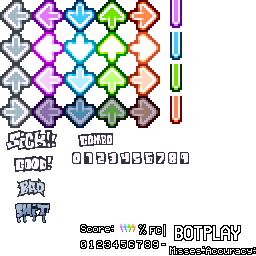
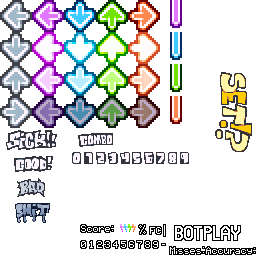
sfx!!!!!

Changed region(s): [[0.8438, 0.2812, 1.0, 0.5938]]

diff --git a/src/stage.c b/src/stage.c
@@ -72,6 +72,10 @@ boolean has2opponents;
 boolean opponent2sing;
 boolean opponentsing;
 
+static u32 Sounds[4];
+int soundcooldown;
+int drawshit;
+
 #include "character/bf.h"
 #include "character/bfweeb.h"
 #include "character/dad.h"
@@ -674,6 +678,46 @@ void Stage_DrawTexRotate(Gfx_Tex *tex, const RECT *src, const RECT_FIXED *dst, f
     Stage_DrawTexArb(tex, src, &d0, &d1, &d2, &d3, zoom);
 }
 
+void Stage_BlendTexRotate(Gfx_Tex *tex, const RECT *src, const RECT_FIXED *dst, fixed_t zoom, u8 angle, u8 mode)
+{	
+	s16 sin = MUtil_Sin(angle);
+	s16 cos = MUtil_Cos(angle);
+	int pw = dst->w / 2000;
+    int ph = dst->h / 2000;
+
+	//Get rotated points
+	POINT p0 = {-pw, -ph};
+	MUtil_RotatePoint(&p0, sin, cos);
+	
+	POINT p1 = { pw, -ph};
+	MUtil_RotatePoint(&p1, sin, cos);
+	
+	POINT p2 = {-pw,  ph};
+	MUtil_RotatePoint(&p2, sin, cos);
+	
+	POINT p3 = { pw,  ph};
+	MUtil_RotatePoint(&p3, sin, cos);
+	
+	POINT_FIXED d0 = {
+		dst->x + ((fixed_t)p0.x << FIXED_SHIFT),
+		dst->y + ((fixed_t)p0.y << FIXED_SHIFT)
+	};
+	POINT_FIXED d1 = {
+		dst->x + ((fixed_t)p1.x << FIXED_SHIFT),
+		dst->y + ((fixed_t)p1.y << FIXED_SHIFT)
+	};
+	POINT_FIXED d2 = {
+        dst->x + ((fixed_t)p2.x << FIXED_SHIFT),
+		dst->y + ((fixed_t)p2.y << FIXED_SHIFT)
+	};
+	POINT_FIXED d3 = {
+        dst->x + ((fixed_t)p3.x << FIXED_SHIFT),
+		dst->y + ((fixed_t)p3.y << FIXED_SHIFT)
+	};
+	
+    Stage_BlendTexArb(tex, src, &d0, &d1, &d2, &d3, zoom, mode);
+}
+
 void Stage_BlendTex(Gfx_Tex *tex, const RECT *src, const RECT_FIXED *dst, fixed_t zoom, u8 mode)
 {
 	fixed_t xz = dst->x;
@@ -1085,6 +1129,72 @@ static void Stage_DrawNotes(void)
 	}
 }
 
+static void Stage_CountDown(void)
+{
+
+	switch(stage.song_step)
+	{
+		case -17:
+			if (soundcooldown == 0)
+				Audio_PlaySound(Sounds[2]);
+			soundcooldown ++;
+			break;
+		case -13:
+			soundcooldown = 0;
+			break;
+		case -12:
+			drawshit = 3;
+			if (soundcooldown == 0)
+				Audio_PlaySound(Sounds[1]);
+			soundcooldown ++;
+			break;
+		case -8:
+			soundcooldown = 0;
+			break;
+		case -7:
+			drawshit = 2;
+			if (soundcooldown == 0)
+				Audio_PlaySound(Sounds[0]);
+			soundcooldown ++;
+			break;
+		case -3:
+			soundcooldown = 0;
+			break;
+		case -2:
+			drawshit = 1;
+			if (soundcooldown == 0)
+				Audio_PlaySound(Sounds[3]);
+			soundcooldown ++;
+			break;
+		//default: drawshit = 0; 
+		//	break;
+	}
+
+	RECT ready_src = {197, 112, 58, 125};	
+	RECT_FIXED ready_dst = {FIXED_DEC(0,1), FIXED_DEC(0,1), FIXED_DEC(58,1), FIXED_DEC(125,1)};	
+
+	RECT set_src = {201, 64, 54, 96};	
+	RECT_FIXED set_dst = {FIXED_DEC(0,1), FIXED_DEC(0,1), FIXED_DEC(54,1), FIXED_DEC(96,1)};	
+
+	RECT go_src = {207, 17, 48, 95};	
+	RECT_FIXED go_dst = {FIXED_DEC(0,1), FIXED_DEC(0,1), FIXED_DEC(48,1), FIXED_DEC(95,1)};	
+
+	if (drawshit == 3 && stage.song_step >= -12 && stage.song_step <= -9)
+		Stage_DrawTexRotate(&stage.tex_hud1, &ready_src, &ready_dst, stage.bump, -65);
+	else if (drawshit == 3 && stage.song_step >= -9 && stage.song_step <= -8)
+		Stage_BlendTexRotate(&stage.tex_hud1, &ready_src, &ready_dst, stage.bump, -65, 1);
+
+	if (drawshit == 2 && stage.song_step >= -7 && stage.song_step <= -4)
+		Stage_DrawTexRotate(&stage.tex_hud0, &set_src, &set_dst, stage.bump, -65);
+	else if (drawshit == 2 && stage.song_step >= -4 && stage.song_step <= -3)
+		Stage_BlendTexRotate(&stage.tex_hud0, &set_src, &set_dst, stage.bump, -65, 1);
+
+	if (drawshit == 1 && stage.song_step >= -2 && stage.song_step <= 1)
+		Stage_DrawTexRotate(&stage.tex_hud1, &go_src, &go_dst, stage.bump, -65);
+	else if (drawshit == 1 && stage.song_step >= 1 && stage.song_step <= 2)
+		Stage_BlendTexRotate(&stage.tex_hud1, &go_src, &go_dst, stage.bump, -65, 1);
+}
+
 //Stage loads
 static void Stage_SwapChars(void)
 {
@@ -1202,6 +1312,58 @@ static void Stage_LoadChart(void)
 	Stage_ChangeBPM(stage.cur_section->flag & SECTION_FLAG_BPM_MASK, 0);
 }
 
+static void Stage_LoadSFX(void)
+{
+	if (stage.stage_id >= StageId_6_1 && stage.stage_id <= StageId_6_3)
+	{
+		//Load SFX
+	 	CdlFILE file;
+	  	IO_FindFile(&file, "\\SOUNDS\\INTRO1P.VAG;1");
+	    u32 *data = IO_ReadFile(&file);
+	    Sounds[0] = Audio_LoadVAGData(data, file.size);
+	    Mem_Free(data);
+
+		IO_FindFile(&file, "\\SOUNDS\\INTRO2P.VAG;1");
+	    data = IO_ReadFile(&file);
+	    Sounds[1] = Audio_LoadVAGData(data, file.size);
+	    Mem_Free(data);
+
+		IO_FindFile(&file, "\\SOUNDS\\INTRO3P.VAG;1");
+	    data = IO_ReadFile(&file);
+	    Sounds[2] = Audio_LoadVAGData(data, file.size);
+	    Mem_Free(data);
+
+	   	IO_FindFile(&file, "\\SOUNDS\\INTROGOP.VAG;1");
+	    data = IO_ReadFile(&file);
+	    Sounds[3] = Audio_LoadVAGData(data, file.size);
+	    Mem_Free(data);
+	}
+	else
+	{
+		//Load SFX
+	 	CdlFILE file;
+	  	IO_FindFile(&file, "\\SOUNDS\\INTRO1.VAG;1");
+	    u32 *data = IO_ReadFile(&file);
+	    Sounds[0] = Audio_LoadVAGData(data, file.size);
+	    Mem_Free(data);
+
+		IO_FindFile(&file, "\\SOUNDS\\INTRO2.VAG;1");
+	    data = IO_ReadFile(&file);
+	    Sounds[1] = Audio_LoadVAGData(data, file.size);
+	    Mem_Free(data);
+
+		IO_FindFile(&file, "\\SOUNDS\\INTRO3.VAG;1");
+	    data = IO_ReadFile(&file);
+	    Sounds[2] = Audio_LoadVAGData(data, file.size);
+	    Mem_Free(data);
+
+	   	IO_FindFile(&file, "\\SOUNDS\\INTROGO.VAG;1");
+	    data = IO_ReadFile(&file);
+	    Sounds[3] = Audio_LoadVAGData(data, file.size);
+	    Mem_Free(data);
+	}
+}
+
 static void Stage_LoadMusic(void)
 {
 	//Offset sing ends
@@ -1250,6 +1412,8 @@ static void Stage_LoadState(void)
 		stage.player_state[i].combo = 0;
 		opponentsing = 1;	
 		opponent2sing = 1;
+		soundcooldown = 0;
+		drawshit = 0;
 		stage.player_state[i].miss = 0;
 		stage.player_state[i].accuracy = 0;
 		stage.player_state[i].max_accuracy = 0;
@@ -1289,7 +1453,10 @@ void Stage_Load(StageId id, StageDiff difficulty, boolean story)
 	}
 	//Load stage background
 	Stage_LoadStage();
-	
+
+	//Load SFX
+	Stage_LoadSFX();
+
 	//Load characters
 	Stage_LoadPlayer();
 	Stage_LoadOpponent();
@@ -1548,6 +1715,9 @@ void Stage_Tick(void)
 				note_x[7] = FIXED_DEC(-26,1) - FIXED_DEC(SCREEN_WIDEADD,4);
 			}
 
+
+
+			Stage_CountDown();
 			if (stage.botplay == 1)
 			{
 				//Draw botplay

diff --git a/src/menu.c b/src/menu.c
@@ -26,7 +26,7 @@
 
 #include "stdlib.h"
 
-u32 Sounds[3];
+static u32 Sounds[3];
 
 //Menu messages
 static const char *funny_messages[][2] = {
@@ -270,28 +270,23 @@ void Menu_Load(MenuPage page)
 	Trans_Clear();
 	
 	stage.song_step = 0;
-	
-	//sound effects temporarily disabled for repair
-/*
+
 	// to load
 	CdlFILE file;
-    IO_FindFile(&file, "\\SOUND\\SCROLL.VAG;1");
+    IO_FindFile(&file, "\\SOUNDS\\SCROLL.VAG;1");
     u32 *data = IO_ReadFile(&file);
     Sounds[0] = Audio_LoadVAGData(data, file.size);
+    Mem_Free(data);
 
-	IO_FindFile(&file, "\\SOUND\\CONFIRM.VAG;1");
+	IO_FindFile(&file, "\\SOUNDS\\CONFIRM.VAG;1");
     data = IO_ReadFile(&file);
     Sounds[1] = Audio_LoadVAGData(data, file.size);
+    Mem_Free(data);
 
-	IO_FindFile(&file, "\\SOUND\\CANCEL.VAG;1");
+	IO_FindFile(&file, "\\SOUNDS\\CANCEL.VAG;1");
     data = IO_ReadFile(&file);
     Sounds[2] = Audio_LoadVAGData(data, file.size);
-    
-	for (int i = 0; i < 3; i++)
-	printf("address = %08x\n", Sounds[i]);
-
-	free(data);
-*/
+    Mem_Free(data);
 
 	//Play menu music
 	Audio_PlayXA_Track(XA_GettinFreaky, 0x40, 0, 1);

diff --git a/src/stage.h b/src/stage.h
@@ -267,6 +267,7 @@ extern Stage stage;
 void Stage_DrawTexCol(Gfx_Tex *tex, const RECT *src, const RECT_FIXED *dst, fixed_t zoom, u8 r, u8 g, u8 b);
 void Stage_DrawTex(Gfx_Tex *tex, const RECT *src, const RECT_FIXED *dst, fixed_t zoom);
 void Stage_DrawTexRotate(Gfx_Tex *tex, const RECT *src, const RECT_FIXED *dst, fixed_t zoom, u8 angle);
+void Stage_BlendTexRotate(Gfx_Tex *tex, const RECT *src, const RECT_FIXED *dst, fixed_t zoom, u8 angle, u8 mode);
 void Stage_BlendTex(Gfx_Tex *tex, const RECT *src, const RECT_FIXED *dst, fixed_t zoom, u8 mode);
 void Stage_DrawTexArb(Gfx_Tex *tex, const RECT *src, const POINT_FIXED *p0, const POINT_FIXED *p1, const POINT_FIXED *p2, const POINT_FIXED *p3, fixed_t zoom);
 void Stage_BlendTexArb(Gfx_Tex *tex, const RECT *src, const POINT_FIXED *p0, const POINT_FIXED *p1, const POINT_FIXED *p2, const POINT_FIXED *p3, fixed_t zoom, u8 mode);

diff --git a/src/psx/audio.c b/src/psx/audio.c
@@ -415,8 +415,6 @@ void Audio_PlaySoundOnChannel(u32 addr, u32 channel) {
 }
 
 void Audio_PlaySound(u32 addr) {
-	//sound effects temporarily disabled for repair
-/*
     for (u32 ch = 0; ch < 24; ch++) { // channels 0-3 are reserved for streaming
         if (SPU_CHANNELS[ch]._reserved)
             continue;
@@ -427,6 +425,5 @@ void Audio_PlaySound(u32 addr) {
     }
 
     printf("Could not find free channel to play sound (addr=%08x)\n", addr);
-*/
 }
 
